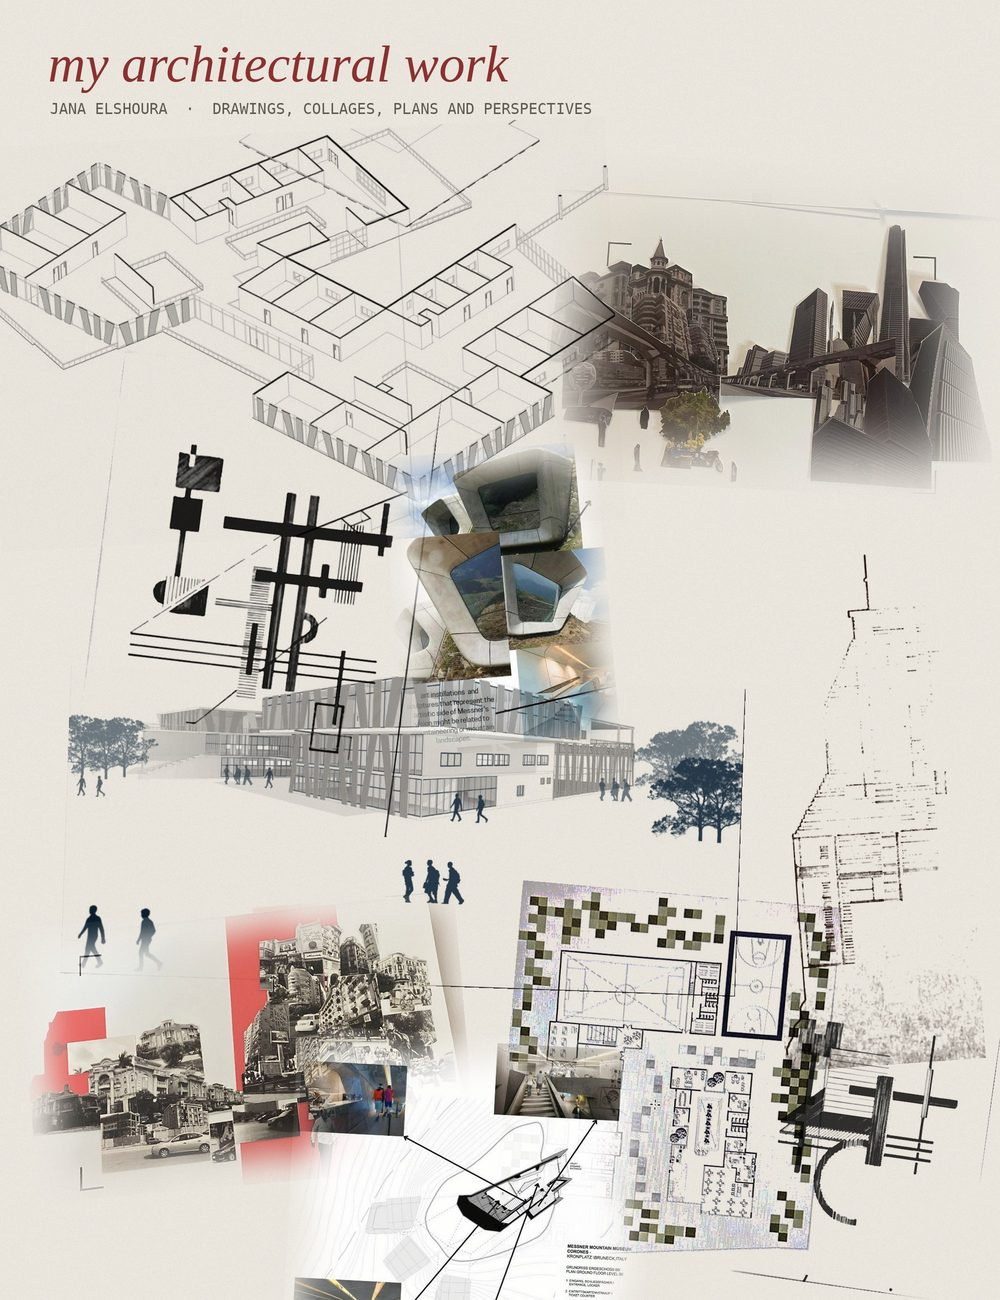
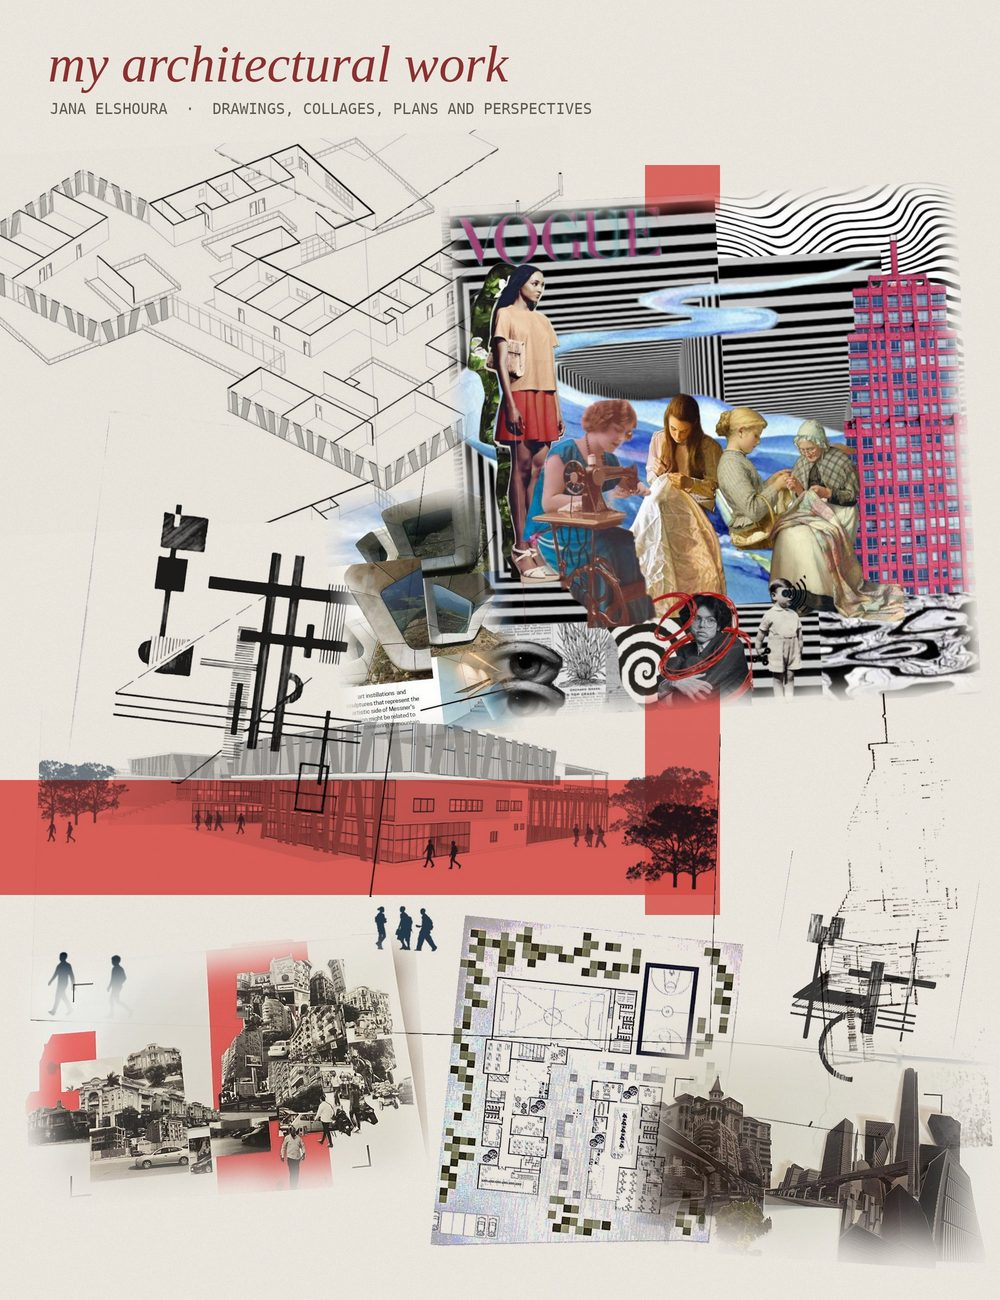
New architecture collage with final collage project
Claude-Session: https://claude.ai/code/session_01RWhRtLdeFxWxPncqja81Qc

diff --git a/index.html b/index.html
@@ -221,7 +221,7 @@ footer{font:400 11px/1.5 var(--mono);letter-spacing:.12em;text-transform:upperca
       <p>I left architecture because I love creativity most when it is free. Still, it shaped me more than any single course or degree could, and I carry that love for design into everything I do, now with the skills to make it real.</p>
     </div>
     <figure class="collage">
-      <a href="img/architecture-board.jpg" target="_blank" rel="noopener"><img src="img/architecture-board-sm.jpg" alt="Collage of Jana's architecture work blended together: an exploded axonometric, abstraction drawings, a 3D city collage, a perspective, city collages, a site plan and a hand drawn elevation" loading="lazy"></a>
+      <a href="img/architecture-board.jpg" target="_blank" rel="noopener"><img src="img/architecture-board-sm.jpg" alt="Collage of Jana's architecture work blended together: her final photo collage, an exploded axonometric, abstraction drawings, a 3D city collage, a perspective, city collages, a site plan and a hand drawn elevation" loading="lazy"></a>
       <figcaption>My architecture work, blended into one board. Tap to see it full size.</figcaption>
     </figure>
   </section>
